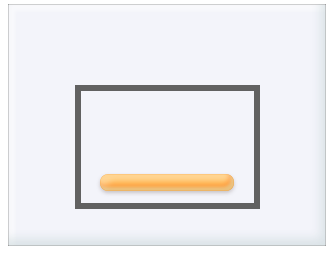
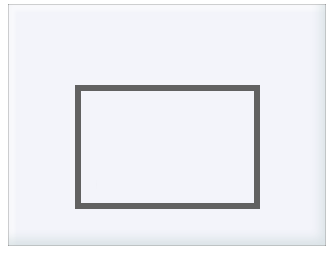
농구대 그림 추가

Changed region(s): [[0.3003, 0.6462, 0.7207, 0.7692]]

diff --git a/game.js b/game.js
@@ -11,6 +11,7 @@ var bestScore = 0;
 var boundsAnchorLeft;
 var boundsAnchorRight;
 var boundsCollisionGroup;
+var boardRingFront;
 
 const GRAVITY_AMOUNT = 3000;
 const GRAVITY_ADJUST_AMOUNT = 150;
@@ -28,8 +29,7 @@ function drawRectangle(x, y, width, height, color) {
 function preload() {
     game.load.image('ball', 'images/ball.png');
     game.load.image('board_back', 'images/board_back.png');
-    game.load.image('board_left_anchor', 'images/board_left_anchor.png');
-    game.load.image('board_right_anchor', 'images/board_right_anchor.png');
+    game.load.image('board_front_ring', 'images/board_front_ring.png');
 }
 
 function create() {
@@ -50,6 +50,9 @@ function create() {
 
     var board = game.add.sprite(game.world.centerX, game.world.centerY - 150, 'board_back');
     board.anchor.set(0.5);
+
+    var boardRing = game.add.sprite(game.world.centerX, game.world.centerY - 100, 'board_front_ring');
+    boardRing.anchor.set(0.5);
 
 	game.stage.backgroundColor = '#124184';
 
@@ -89,6 +92,10 @@ function create() {
     ball.body.collides([ boundsCollisionGroup, goalCollisionGroup ]);
     ball.body.data.shapes[0].sensor = true;
 
+    boardRingFront = game.add.sprite(game.world.centerX, game.world.centerY - 100, 'board_front_ring');
+    boardRingFront.anchor.set(0.5);
+    boardRingFront.visible = false;
+
     Phaser.Canvas.setTouchAction(this.game.canvas, 'auto');
     game.input.touch.preventDefault = true;
 
@@ -102,6 +109,7 @@ function update() {
             ball.body.data.shapes[0].sensor = false;
             ball.body.updateCollisionMask();
             isFallingBall = true;
+            boardRingFront.visible = true;
 
             return;
         }
@@ -166,6 +174,8 @@ function resetGame() {
     ball.body.setZeroRotation();
     ball.body.static = true;
     ball.body.reset(game.world.centerX, game.world.centerY + 200, true, true);
+
+    boardRingFront.visible = false;
 
     isTrackDragging = false;
     isShootingBall = false;
